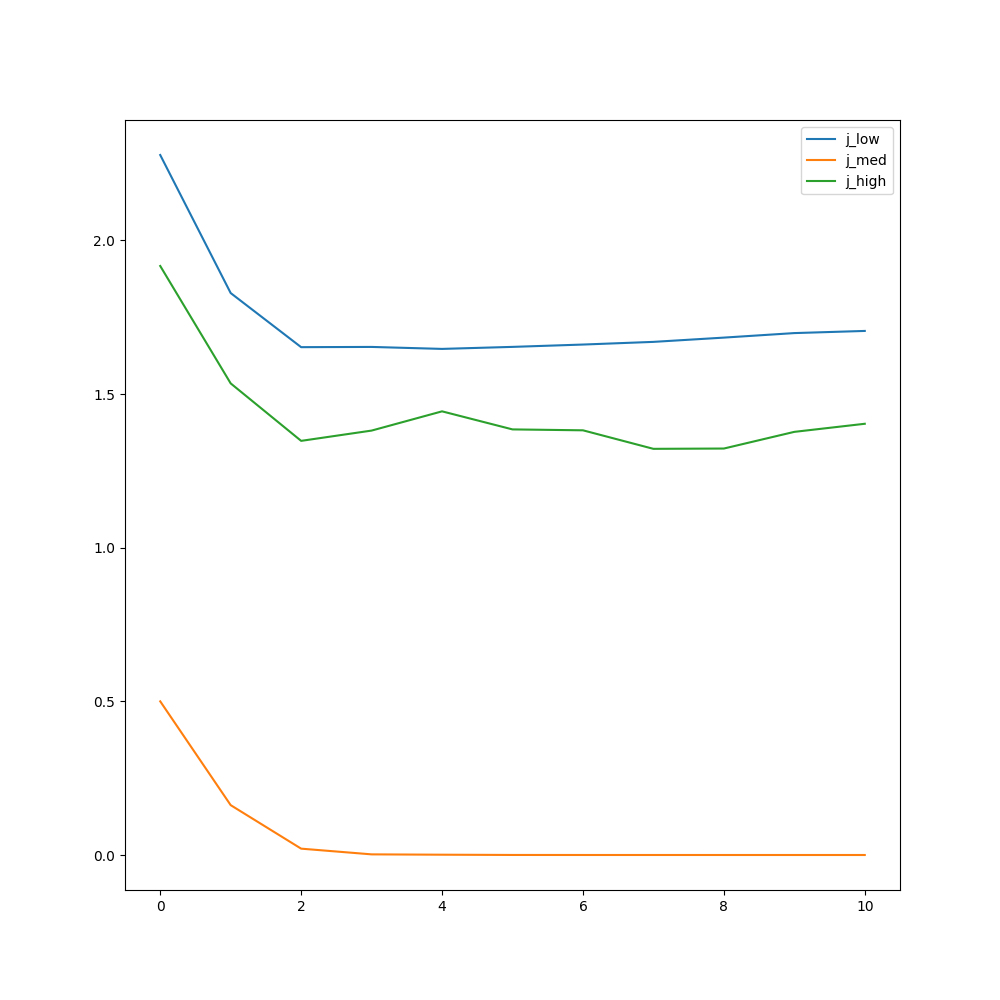
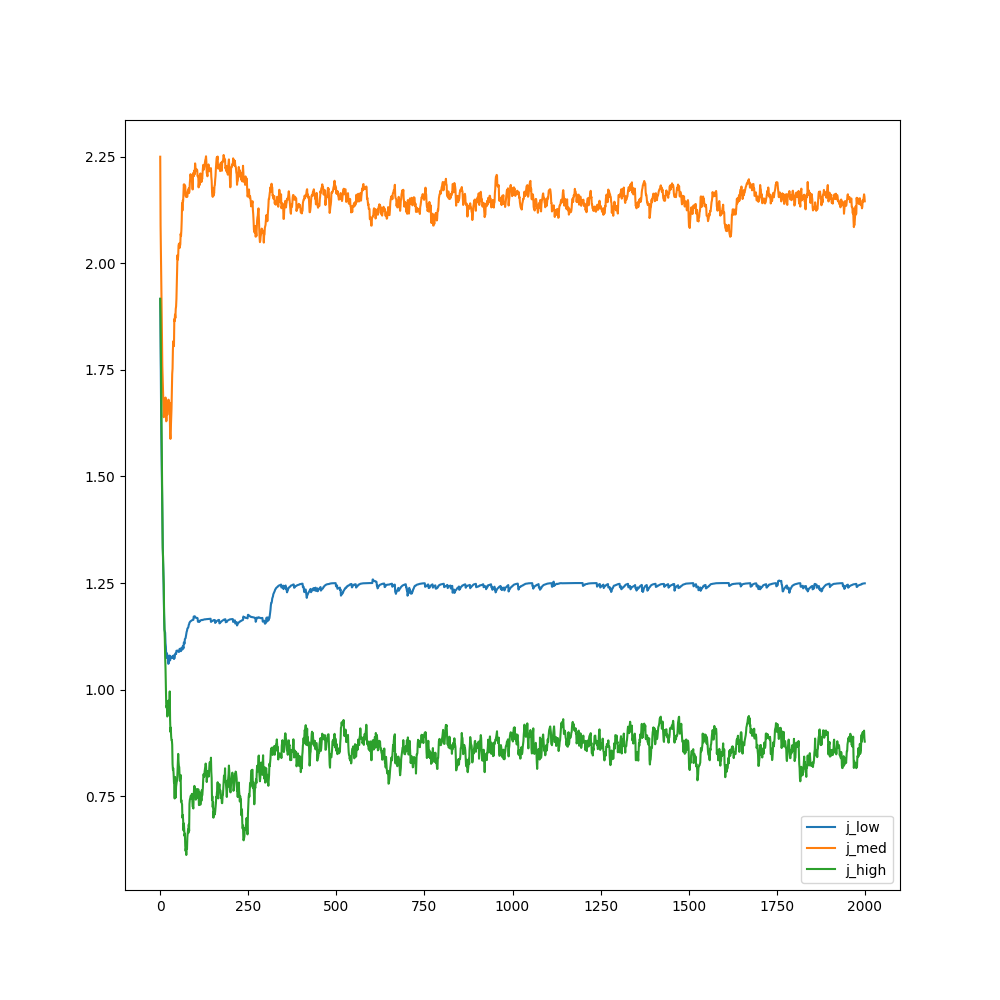
fixed (1-gamma)

diff --git a/games.py b/games.py
@@ -79,13 +79,11 @@ class bargain:
                     action1 = random_choice(node1_data['P'], Q[i, 0])
                     action2 = random_choice(node2_data['P'], Q[i, 1])
 
-                    J1_old = node1_data['J'][action1]
-                    J2_old = node2_data['J'][action2]
 
-                    node1_data['J'] *= self.gamma
-                    node2_data['J'] *= self.gamma
-                    node1_data['J'][action1] = J1_old - node1_data['J'][action1] + self.payoff[action1][action2]
-                    node2_data['J'][action2] = J2_old - node2_data['J'][action2] + self.payoff[action2][action1]
+                    node1_data['J'] *= (1.0 - self.gamma)
+                    node2_data['J'] *= (1.0 - self.gamma)
+                    node1_data['J'][action1] += self.payoff[action1][action2]
+                    node2_data['J'][action2] += self.payoff[action2][action1]
 
                     node1_data['P'] = np.exp(self.beta * node1_data['J'])
                     node1_data['P'] /= np.sum(node1_data['P'])
@@ -161,26 +159,45 @@ class bargain:
         }
         return statistics
 
-    def plot_statistics(self, fig_size=(10, 10)):
+    def get_vertex_positions(self, data):
+        assert(len(np.shape(data))==3)
+        # data of the form [T, N, 3]
 
-        p = self.statistics["p_all"]
-        p = np.array(p)
-
-        den = np.sum(p, axis=2)
+        # (J1+J2+J3)
+        den = np.sum(data, axis=2)
 
         # (J2 + J3/2)/(J1+J2+J3)
-        p_x = (p[:,:,1] + p[:,:,2]/2.0) / den
-        # \sqrt(3) * J3/2 /(J1+J2+J3)
-        p_y = np.sqrt(3) * p[:,:,2] / 2.0 / den
+        data_x = (data[:,:,1] + data[:,:,2]/2.0) / den
 
+        # \sqrt(3) * J3/2 /(J1+J2+J3)
+        data_y = np.sqrt(3) * data[:,:,2] / 2.0 / den
+
+        return data_x, data_y
+
+
+    def plot_statistics(self, fig_size=(10, 10)):
+
+        plot_every = 10
+
+        p = np.array(self.statistics["p_all"])
+        p_x, p_y = self.get_vertex_positions(p)
         fig, ax = plt.subplots(figsize=fig_size)
-        fig_path = self.results_folder + "/simplex"
+        fig_path = self.results_folder + "/simplex_P"
         for particle in range(np.shape(p_x)[1]):
-            x = p_x[:,particle]
-            y = p_y[:,particle]
+            x = p_x[::plot_every,particle]
+            y = p_y[::plot_every,particle]
             ax.plot(x, y)
         plt.savefig(fig_path)
 
+        j = np.array(self.statistics["j_all"])
+        j_x, j_y = self.get_vertex_positions(j)
+        fig, ax = plt.subplots(figsize=fig_size)
+        fig_path = self.results_folder + "/simplex_J"
+        for particle in range(np.shape(p_x)[1]):
+            x = j_x[::plot_every,particle]
+            y = j_y[::plot_every,particle]
+            ax.plot(x, y)
+        plt.savefig(fig_path)
 
 
         fig, ax = plt.subplots(figsize=fig_size)

diff --git a/run_pantelis.py b/run_pantelis.py
@@ -6,19 +6,18 @@ import matplotlib.pyplot as plt
 import numpy as np
 import networkx as nx
 
-run_name = "example"
 n = 6
-
-beta = 4.0
+beta = 2.0
 gamma = 0.1
 
-J0 = [ 4, 1, 4 ]
+J0 = [ 4, 4, 4 ]
+run_name = "example"
 
 G = gr.lattice_von_neumann(n)
 
 game = bargain(G, beta=beta, gamma=gamma, J0=J0, folder=run_name)
 
-num_epochs = 10
+num_epochs = 2000
 game.play(num_epochs)
 game.plot_statistics()
 
